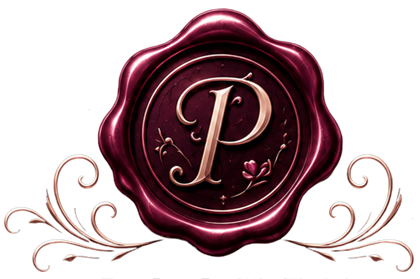
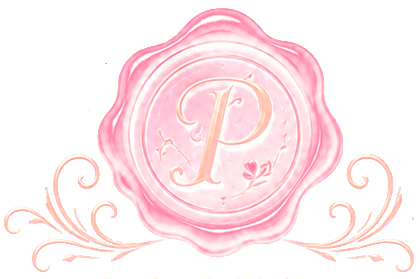
Onboarding tour: plaster-panel card + WELCOME in the story register
Owner asked for two things: the WELCOME word bigger and in the same
font as the writing, and the painted plum-plaster art moved INSIDE
the card (first pass put it behind the whole overlay - wrong).

- assets/ui/tour-bg.jpg: the owner's plaster texture, 852x1846 PNG
  2768 KB -> 700x1517 JPEG 165 KB. It is the card surface now, anchored
  center-top so the lit patch of the art falls behind WELCOME. Two
  gradient layers over it are a legibility scrim, not a tint. Overlay
  backdrop is back to the original dark gradient + blur.
- WELCOME leaves the Quicksand UI register for Cormorant italic at
  36px (31px under 700px tall), full gold, slow breathing glow. Only
  card 1 - HOW TO PLAY / YOUR POWER stay small UI labels because they
  are section headings and this is a greeting.
- tour-seal.png rebaked with a REAL alpha channel (alpha = max(r,g,b),
  colour un-premultiplied) instead of relying on mix-blend-mode:screen.
  Screen only worked while the backdrop was near-black; it washed the
  seal out the moment the texture landed. Now it composites correctly
  on anything.
- sw.js -> v1126.

Verified fresh-save at 375x812 and 360x640, all four cards, 0 console
errors.

diff --git a/js/onboarding-flow.js b/js/onboarding-flow.js
@@ -209,16 +209,18 @@
         color:rgba(244, 235, 220, 0.92);
       }
 
-      /* Wax seal above the card. The source art is on a BLACK background
-         rather than transparent, so screen blending drops the black out
-         against the dark overlay and leaves only the seal and its glow.
+      /* Wax seal above the card. The source art ships on a solid BLACK
+         background; assets/ui/tour-seal.png is a re-baked copy carrying a
+         real alpha channel (see scratchpad make-seal-alpha.ps1), so it
+         composites cleanly over the plaster texture. It used to rely on
+         mix-blend-mode:screen, which only worked while the backdrop was
+         near-black and washed the seal out once the texture landed.
          (No backticks in here — this block lives inside a JS template
          literal and a stray backtick terminates the whole file.) */
       #pp-onboarding-seal {
         width:min(46vw, 172px);
         height:auto;
         margin-bottom:-6px;
-        mix-blend-mode:screen;
         pointer-events:none;
         filter:drop-shadow(0 6px 26px rgba(122, 18, 36, 0.5));
         opacity:0; transform:translateY(14px) scale(0.96);
@@ -234,10 +236,20 @@
       #pp-onboarding-overlay:not(.show) { pointer-events:none; }
       #pp-onboarding-card {
         max-width:420px; width:100%;
-        /* Dark velvet card with subtle wine glow within */
-        background:
-          radial-gradient(ellipse at 50% 0%, rgba(122, 18, 36, 0.25) 0%, rgba(0,0,0,0) 60%),
-          linear-gradient(180deg, rgba(43, 17, 51, 0.96), rgba(21, 8, 26, 0.98));
+        /* The card is the owner's painted plum-plaster panel. Anchored to the
+           top of the art so the lit patch falls behind WELCOME. The two
+           gradients above it are a legibility scrim, not a tint — light at the
+           top where the gold sits, heavier lower down so the pale body text
+           stays crisp against the texture. background-color is the fallback if
+           the jpg fails to load. */
+        background-color:#1B0A22;
+        background-image:
+          radial-gradient(ellipse at 50% 0%, rgba(122, 18, 36, 0.22) 0%, rgba(0, 0, 0, 0) 62%),
+          linear-gradient(180deg, rgba(20, 7, 26, 0.22) 0%, rgba(16, 5, 22, 0.44) 55%, rgba(12, 4, 18, 0.60) 100%),
+          url('assets/ui/tour-bg.jpg');
+        background-size:cover, cover, cover;
+        background-position:center, center, center top;
+        background-repeat:no-repeat, no-repeat, no-repeat;
         /* Rose-gold thin border */
         border:1px solid rgba(232, 200, 138, 0.32);
         border-radius:22px; padding:32px 28px;
@@ -266,6 +278,48 @@
         color:#F4DDA8;
         text-shadow:0 0 14px rgba(232, 200, 138, 0.45);
         margin-bottom:16px;
+      }
+
+      /* WELCOME only (card 1). Owner: "bigger, same font as the writing, it
+         needs to be attracting." So it leaves the Quicksand UI register and
+         joins the story register — Cormorant italic, like the title and body
+         under it — at greeting scale, in full gold, with a slow breath on the
+         glow. HOW TO PLAY / YOUR POWER stay small UI labels: they are section
+         headings, this is a greeting. */
+      .pp-on-eyebrow.is-welcome {
+        font-family:'Cormorant Garamond','EB Garamond','Garamond','Georgia',serif;
+        font-style:italic;
+        font-weight:500;
+        font-size:36px;
+        letter-spacing:0.09em;
+        line-height:1.1;
+        color:#F9E7BC;
+        margin-bottom:14px;
+        text-shadow:
+          0 0 18px rgba(244, 221, 168, 0.55),
+          0 0 44px rgba(214, 59, 122, 0.30),
+          0 2px 10px rgba(0, 0, 0, 0.55);
+        animation:ppOnWelcomeGlow 4.6s ease-in-out infinite;
+      }
+      @keyframes ppOnWelcomeGlow {
+        0%, 100% {
+          text-shadow:
+            0 0 18px rgba(244, 221, 168, 0.55),
+            0 0 44px rgba(214, 59, 122, 0.30),
+            0 2px 10px rgba(0, 0, 0, 0.55);
+        }
+        50% {
+          text-shadow:
+            0 0 28px rgba(255, 236, 190, 0.85),
+            0 0 64px rgba(214, 59, 122, 0.48),
+            0 2px 10px rgba(0, 0, 0, 0.55);
+        }
+      }
+      @media (prefers-reduced-motion: reduce) {
+        .pp-on-eyebrow.is-welcome { animation:none; }
+      }
+      @media (max-height: 700px) {
+        .pp-on-eyebrow.is-welcome { font-size:31px; margin-bottom:12px; }
       }
 
       /* Title ("Seven hearts are waiting.") — STORY register */
@@ -407,7 +461,10 @@
     const c = cardFor(idx);
     card.innerHTML = '';
     if (c.eyebrow) {
-      const eb = document.createElement('div'); eb.className = 'pp-on-eyebrow';
+      const eb = document.createElement('div');
+      // Card 1's WELCOME is the greeting, not a section label — it gets the
+      // story-register treatment (see .is-welcome in injectStyles).
+      eb.className = 'pp-on-eyebrow' + (idx === 0 ? ' is-welcome' : '');
       eb.textContent = c.eyebrow; card.appendChild(eb);
     }
     const t = document.createElement('div');

diff --git a/sw.js b/sw.js
@@ -1,4 +1,4 @@
-const CACHE_NAME = 'pocket-love-v1125';
+const CACHE_NAME = 'pocket-love-v1126';
 
 // -----------------------------------------------------------------------------
 // CORE_ASSETS — the manifest. Must match the <script> tags in index.html so
@@ -22,6 +22,7 @@ const CORE_ASSETS = [
     '/assets/title-bg.png',
     '/assets/ui/rose-coin.png',
     '/assets/ui/tour-seal.png',
+    '/assets/ui/tour-bg.jpg',
     '/assets/prologue/beat-2-kingdom.png',
     '/assets/prologue/beat-3-4-ritual.png',
     '/assets/prologue/beat-6-portal.png',
